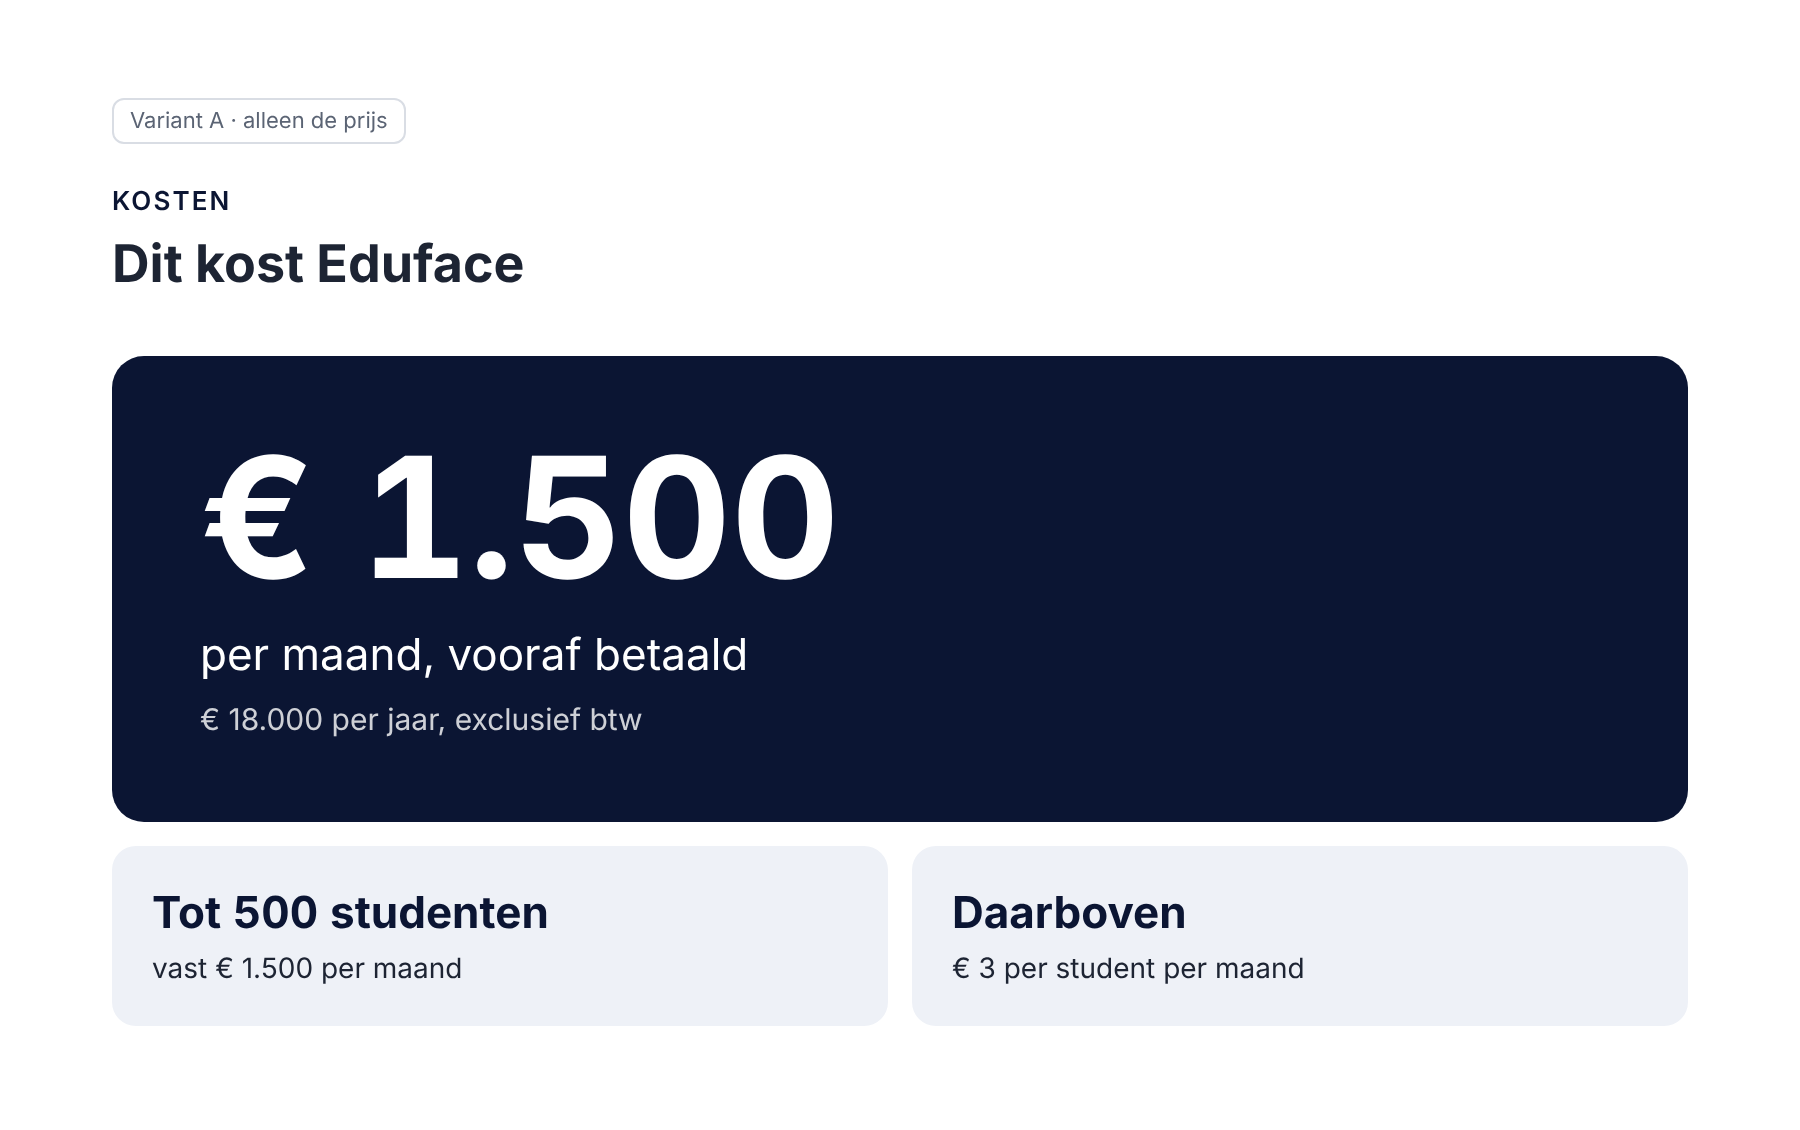
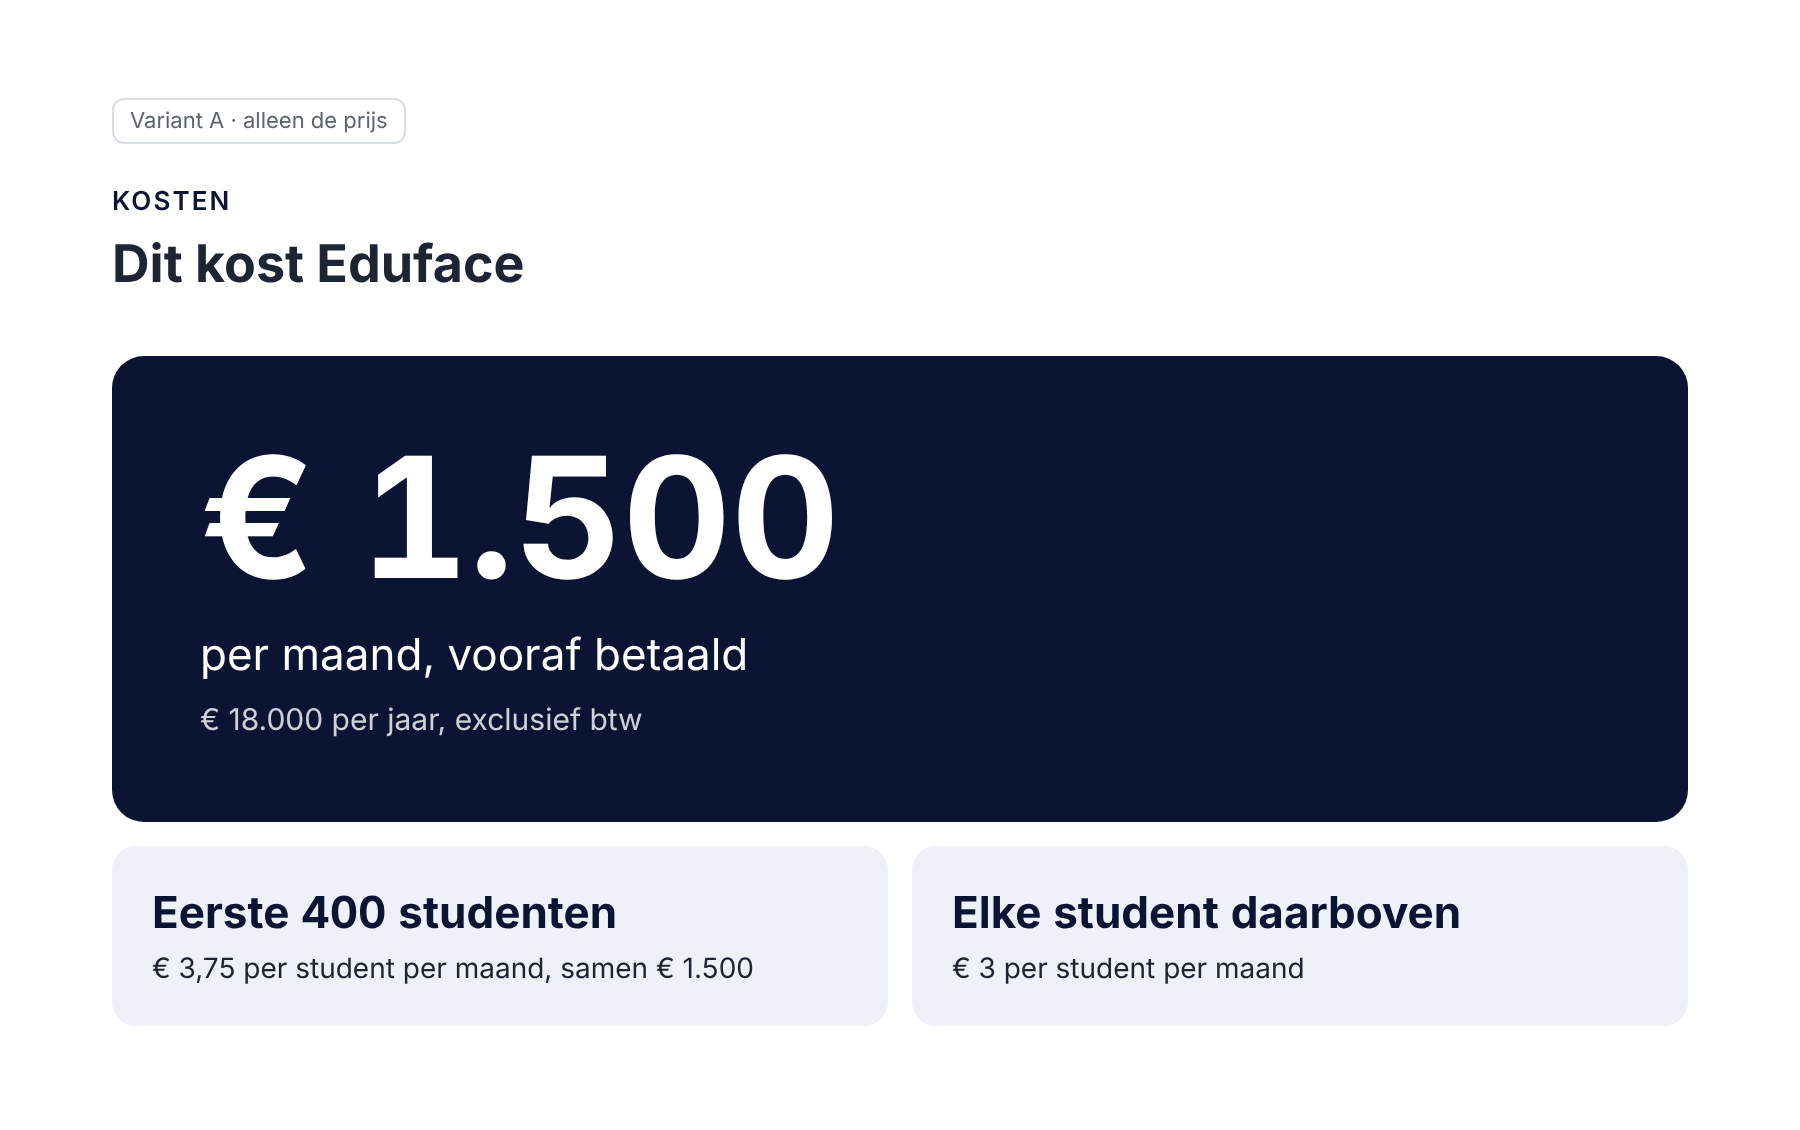
Business case: prijspagina als pptx; open vraag over standaardprijs
Claude-Session: https://claude.ai/code/session_01N8nwrWExSKGjo2t8Td3eSo

Changed region(s): [[0.0933, 0.7743, 0.4356, 0.8673], [0.5289, 0.7743, 0.8089, 0.8363]]

diff --git a/GTM/Knowledge/business-case/proef-kosten-simpel.html b/GTM/Knowledge/business-case/proef-kosten-simpel.html
@@ -41,8 +41,8 @@
     <div class="klein">€ 18.000 per jaar, exclusief btw</div>
   </div>
   <div class="regels">
-    <div class="regel"><b>Tot 500 studenten</b>vast € 1.500 per maand</div>
-    <div class="regel"><b>Daarboven</b>€ 3 per student per maand</div>
+    <div class="regel"><b>Eerste 400 studenten</b>€ 3,75 per student per maand, samen € 1.500</div>
+    <div class="regel"><b>Elke student daarboven</b>€ 3 per student per maand</div>
   </div>
 </div>
 

diff --git a/GTM/Knowledge/business-case/pptx/prijs_pptx.py b/GTM/Knowledge/business-case/pptx/prijs_pptx.py
@@ -1,0 +1,59 @@
+"""Prijspagina (variant A, simpel en groot) als bewerkbare pptx.
+Gebruik: python3 prijs_pptx.py uitvoer.pptx"""
+from pptx import Presentation
+from pptx.util import Emu, Pt
+from pptx.dml.color import RGBColor
+from pptx.enum.shapes import MSO_SHAPE
+from pptx.enum.text import MSO_ANCHOR
+import sys
+
+PX = 6350
+KLANT = RGBColor(0x0B, 0x15, 0x33)
+TINT = RGBColor(0xEE, 0xF1, 0xF7)
+TEKST = RGBColor(0x1D, 0x24, 0x33)
+WIT = RGBColor(0xFF, 0xFF, 0xFF)
+WITZACHT = RGBColor(0xC9, 0xCE, 0xD9)
+FONT = 'Inter'
+E = lambda v: Emu(int(v * PX))
+
+prs = Presentation()
+prs.slide_width, prs.slide_height = E(1920), E(1080)
+s = prs.slides.add_slide(prs.slide_layouts[6])
+
+def blok(x, y, w, h, vul, rond):
+    v = s.shapes.add_shape(MSO_SHAPE.ROUNDED_RECTANGLE, E(x), E(y), E(w), E(h))
+    v.adjustments[0] = rond
+    v.fill.solid(); v.fill.fore_color.rgb = vul; v.line.fill.background(); v.shadow.inherit = False
+
+def tekst(x, y, w, h, regels, anchor=MSO_ANCHOR.TOP):
+    tb = s.shapes.add_textbox(E(x), E(y), E(w), E(h))
+    tf = tb.text_frame; tf.word_wrap = True; tf.vertical_anchor = anchor
+    tf.margin_left = tf.margin_right = tf.margin_top = tf.margin_bottom = 0
+    for i, (t, size, bold, kleur, voor) in enumerate(regels):
+        p = tf.paragraphs[0] if i == 0 else tf.add_paragraph()
+        p.space_before = Pt(voor)
+        r = p.add_run(); r.text = t
+        r.font.name, r.font.size, r.font.bold, r.font.color.rgb = FONT, Pt(size), bold, kleur
+
+L, B = 120, 1680
+tekst(L, 90, B, 30, [('KOSTEN', 11, True, KLANT, 0)])
+tekst(L, 124, B, 70, [('Dit kost Eduface', 30, True, TEKST, 0)])
+
+blok(L, 250, B, 430, KLANT, 0.06)
+tekst(L + 90, 250, B - 180, 430, [('€ 1.500', 96, True, WIT, 0),
+                                   ('per maand, vooraf betaald', 22, False, WIT, 10),
+                                   ('€ 18.000 per jaar, exclusief btw', 15, False, WITZACHT, 6)], anchor=MSO_ANCHOR.MIDDLE)
+
+W = (B - 24) / 2
+for i, (kop, sub) in enumerate([('Eerste 400 studenten', '€ 3,75 per student per maand, samen € 1.500'),
+                                ('Elke student daarboven', '€ 3 per student per maand')]):
+    x = L + i * (W + 24)
+    blok(x, 708, W, 190, TINT, 0.1)
+    tekst(x + 44, 708, W - 88, 190, [(kop, 22, True, KLANT, 0), (sub, 14, False, TEKST, 6)], anchor=MSO_ANCHOR.MIDDLE)
+
+out = sys.argv[1]; prs.save(out)
+p = Presentation(out)
+for sl in p.slides:
+    buiten = [sh.shape_id for sh in sl.shapes if sh.left < 0 or sh.top < 0
+              or sh.left + sh.width > p.slide_width or sh.top + sh.height > p.slide_height]
+    print('buiten canvas:', buiten or 'geen')

diff --git a/Context/open-vragen.md b/Context/open-vragen.md
@@ -1,6 +1,6 @@
 # Open vragen
 
-_Aangelegd 19-09-2026, bijgewerkt 02-10-2026._
+_Aangelegd 19-09-2026, bijgewerkt 27-10-2026._
 
 De enige plek waar openstaande vragen aan Dante staan. Een vraag die hier staat is een vraag die ik **niet zelf mag invullen**.
 
@@ -33,6 +33,7 @@ De enige plek waar openstaande vragen aan Dante staan. Een vraag die hier staat 
 | V10 | **Risicoprofiel onder de AI Act, per gebruik.** Voorstel: formatieve feedback zonder scores = laag (onderbouwing onder art. 6 lid 3 vastleggen), summatief scoren = hoog (bijlage III, leerresultaten beoordelen). Bevestig je dat, en wat is de situatie bij de RBS? | Een instelling vraagt het letterlijk (RBS-vragenlijst). "Geen scores" alleen is geen vrijbrief, bijlage III noemt ook leerresultaten die het leerproces sturen. | 02-10-2026 |
 | V11 | Werkt alles in de browser zonder lokale installatie, kunnen functies per instelling aan en uit, wat moet een instelling technisch inrichten (LMS-koppeling, SSO, accountbeheer), en kunnen studenten zelf verwijderen? | Staat geel in `GTM/Knowledge/privacy-vragenlijsten/antwoorden-privacy-it-vragen-2026-10-02.docx`. | 02-10-2026 |
 | V12 | Continuïteit van het bedrijf zelf (financiering, team, exit- of escrowregeling) en het aantal getekende verwerkersovereenkomsten met Nederlandse instellingen. | Zelfde vragenlijst, vraag 9 en 12. | 02-10-2026 |
+| W6 | **Is de prijs uit de business case de nieuwe standaard?** Eerste 400 studenten € 3,75 per student per maand (samen € 1.500), elke student daarboven € 3. `Context/eduface.md` en `GTM/Pricing/` noemen nog € 3 met een drempel van 300 lerenden. | Twee prijzen naast elkaar betekent dat de volgende offerte de verkeerde gebruikt. | 27-10-2026 |
 
 ## Later, geen vraag maar een richting
 
